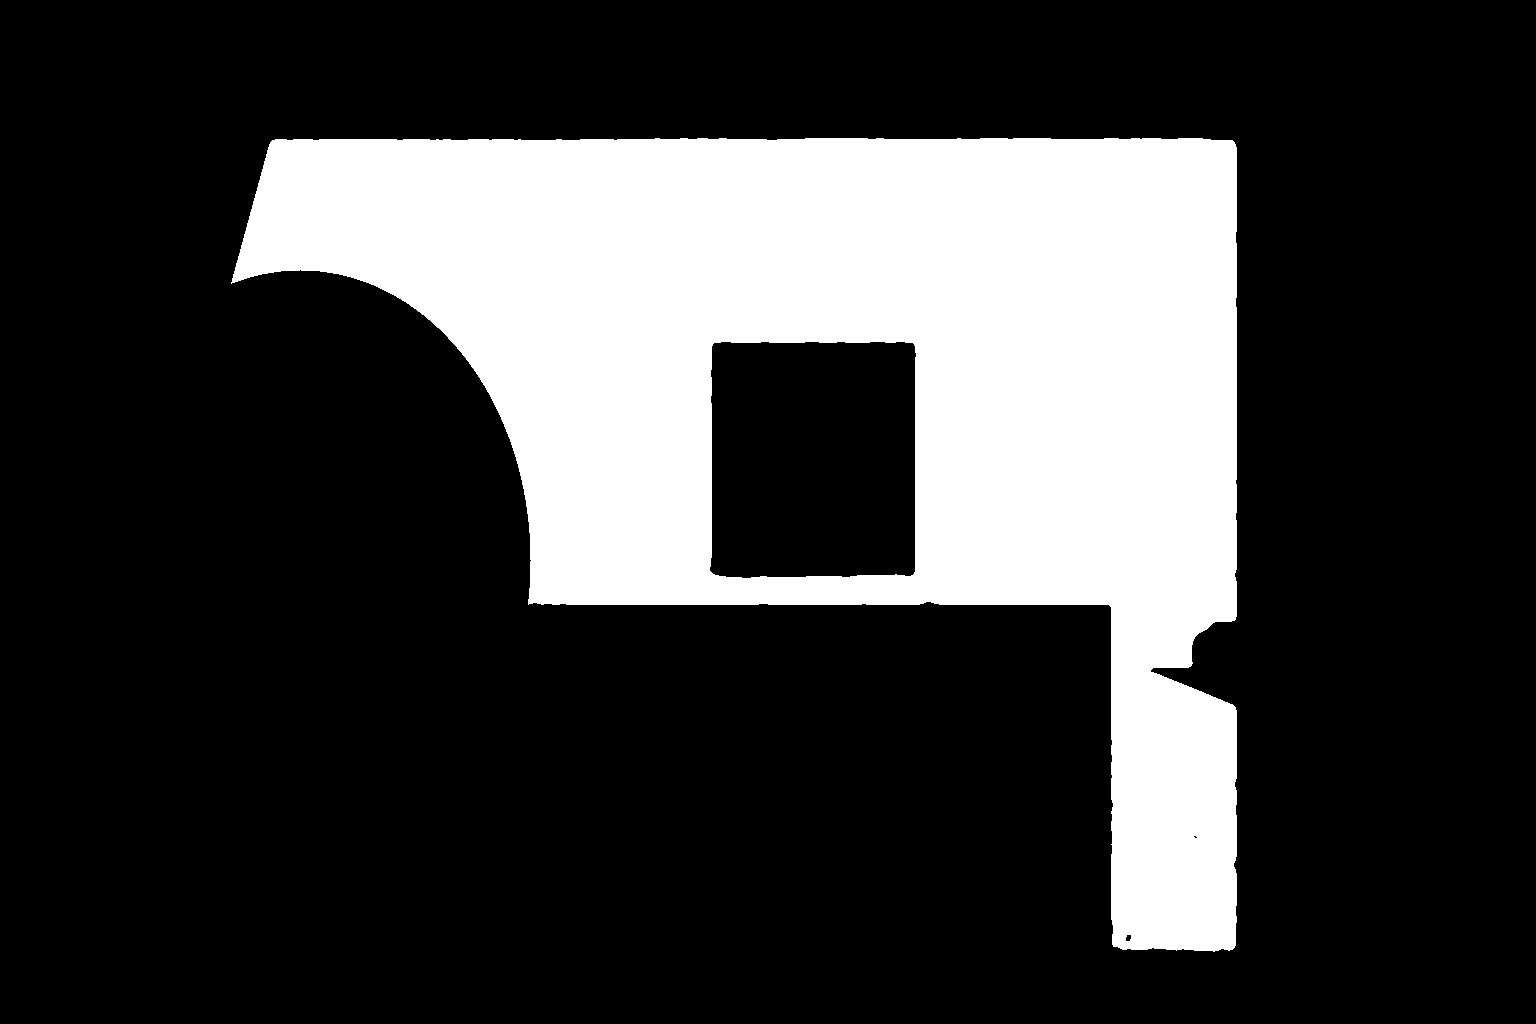
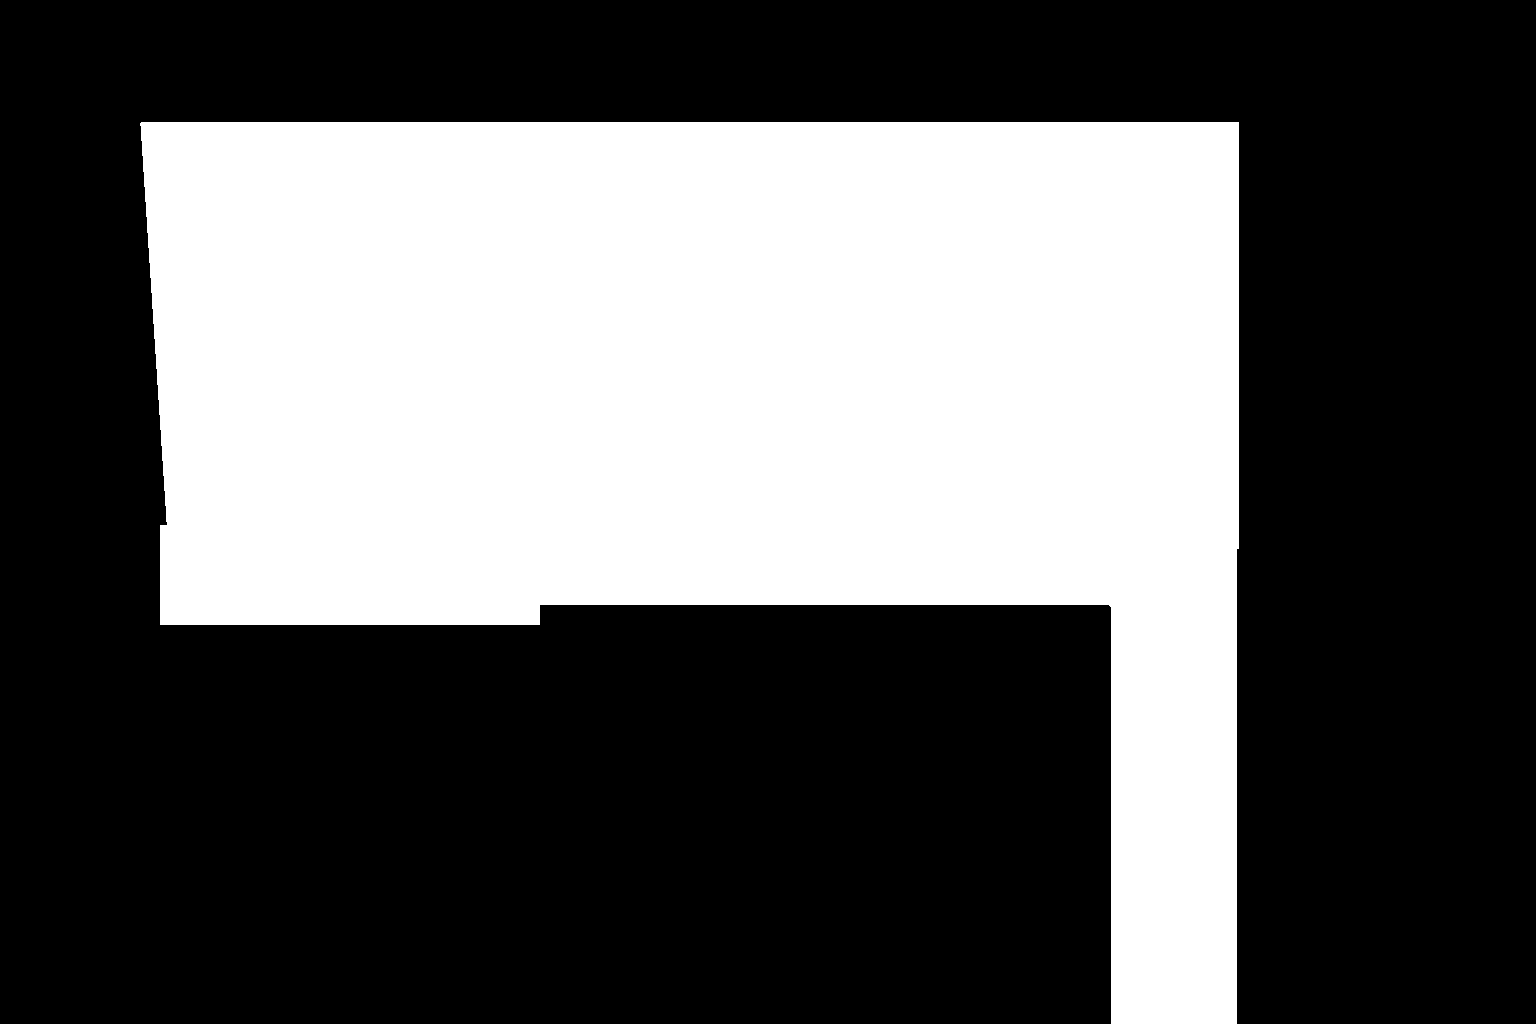
Actualizar landing y visualizador

diff --git a/frontend/visualizador-landing.jsx b/frontend/visualizador-landing.jsx
@@ -8,7 +8,10 @@
   const WALL_MASK = '/visualizador-assets/wall-mask-v2.png';
 
   // La mascara PNG de oclusores esta vacia en este set de fotos: el sillon y la
-  // mesa se protegen recortando estos rectangulos (con difuminado) de la mascara.
+  // mesa se protegen recortando estos rectangulos (con difuminado) de la
+  // mascara de pared. La planta se protege aparte, por color (ver
+  // buildFoliageMaskCanvas), porque tiene hojas finas y espaciadas que un
+  // rectangulo fijo taparia de mas.
   const OCCLUDER_SHAPES = [
     { x: 870, y: 755, width: 370, height: 270, radius: 2, feather: 4 },
     { x: 1065, y: 530, width: 180, height: 280, radius: 30, feather: 6 }
@@ -190,7 +193,7 @@
 
   // Convierte la mascara de pared (grises: blanco = pared) en una mascara alpha
   // real y recorta el sillon/mesa, para poder usarla despues con destination-in.
-  function buildWallMaskCanvas(maskImg, width, height) {
+  function buildWallMaskCanvas(maskImg, photoImg, width, height) {
     const canvas = document.createElement('canvas');
     canvas.width = width;
     canvas.height = height;
@@ -217,9 +220,40 @@
       fillRoundedRect(ctx, shape.x, shape.y, shape.width, shape.height, shape.radius || 0);
       ctx.restore();
     });
+    ctx.drawImage(buildFoliageMaskCanvas(photoImg, width, height), 0, 0);
     ctx.restore();
 
     return canvas;
+  }
+
+  // La planta de la escena tiene hojas finas y espaciadas (se ve pared entre
+  // ellas), asi que un rectangulo fijo tapaba pared de mas. En vez de eso,
+  // protegemos directamente cualquier pixel verde (follaje) de la foto original.
+  function buildFoliageMaskCanvas(photoImg, width, height) {
+    const canvas = document.createElement('canvas');
+    canvas.width = width;
+    canvas.height = height;
+    const ctx = canvas.getContext('2d');
+    ctx.drawImage(photoImg, 0, 0, width, height);
+    const imageData = ctx.getImageData(0, 0, width, height);
+    const data = imageData.data;
+    for (let i = 0; i < data.length; i += 4) {
+      const r = data[i], g = data[i + 1], b = data[i + 2];
+      const isFoliage = g > r + 12 && g > b + 20;
+      data[i] = 255;
+      data[i + 1] = 255;
+      data[i + 2] = 255;
+      data[i + 3] = isFoliage ? 255 : 0;
+    }
+    ctx.putImageData(imageData, 0, 0);
+
+    const softened = document.createElement('canvas');
+    softened.width = width;
+    softened.height = height;
+    const sctx = softened.getContext('2d');
+    sctx.filter = 'blur(3px)';
+    sctx.drawImage(canvas, 0, 0);
+    return softened;
   }
 
   function CompareSlider({ beforeSrc, afterSrc, beforeLabel = 'Antes', afterLabel = 'Después', loadingLabel = '' }) {
@@ -286,7 +320,7 @@
           const width = photo.naturalWidth || photo.width;
           const height = photo.naturalHeight || photo.height;
           setPhotoImg(photo);
-          setMaskCanvas(buildWallMaskCanvas(mask, width, height));
+          setMaskCanvas(buildWallMaskCanvas(mask, photo, width, height));
         })
         .catch(() => setError('No se pudo cargar la foto de la escena.'));
       return () => {

diff --git a/frontend/landing.jsx b/frontend/landing.jsx
@@ -422,7 +422,7 @@ function TesterSection() {
             <div className="kicker">Tecnología CA</div>
             <h2 style={{ marginTop: 18 }}>Probá los materiales en tu obra antes de elegirlos.</h2>
           </Reveal>
-          <Reveal className="reveal-up"><p>Elegí una escena (pared, piso o fachada), tocá un material del catálogo y mirá el antes/después al instante. Si querés, generá además un render fotorrealista con IA.</p></Reveal>
+          <Reveal className="reveal-up"><p>Tocá un material de nuestro catálogo, elegí el modo de pintado y mirá el antes/después de la pared al instante.</p></Reveal>
         </div>
         <Reveal>
           <window.VisualizadorIAWidget apiUrl="" clientId="ca-landing" />